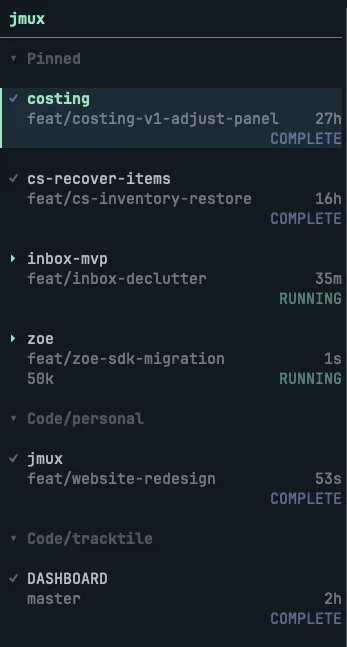
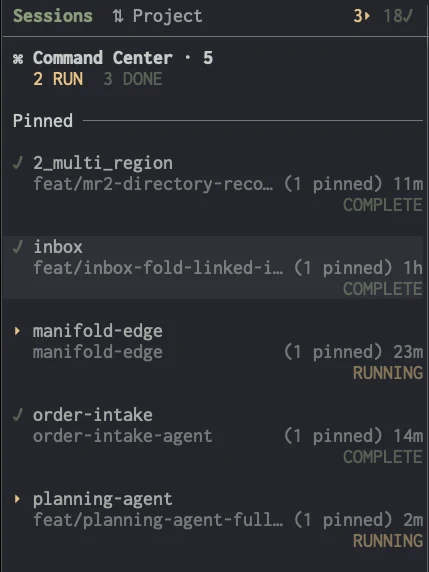
docs(site): fresh sidebar shot, new-chrome hero rotation, drop MRs image
Replace the Session Sidebar tile screenshot with a current-chrome
capture. Favour the newer new-chrome images in the hero card rotation
(command-center grid, dark theme, issues panel, light theme). Remove the
GitLab MRs image from the info-panel section on both the site and README
per design pass; the surrounding copy stays.

Claude-Session: https://claude.ai/code/session_01KujbtKHwH2BcBHHmmokm2v

diff --git a/site/index.html b/site/index.html
@@ -309,9 +309,9 @@
     <div class="heroshot">
       <div class="herostack">
         <figure class="card" data-pos="0"><img src="assets/command-center.webp" alt="jmux Command Center: a grid of live Claude agent panes, borders colored by state"></figure>
-        <figure class="card" data-pos="1"><img src="assets/command-palette.webp" alt="jmux command palette floating over a workspace"></figure>
-        <figure class="card" data-pos="2"><img src="assets/diff-panel-full.webp" alt="jmux full-screen diff panel"></figure>
-        <figure class="card" data-pos="3"><img src="assets/hero.webp" alt="jmux sidebar with grouped sessions alongside vim and Claude Code"></figure>
+        <figure class="card" data-pos="1"><img src="assets/theme-dark.webp" alt="jmux in a dark terminal theme: sidebar, window tabs, and a Claude Code session"></figure>
+        <figure class="card" data-pos="2"><img src="assets/linear-issues.webp" alt="jmux info panel showing Linear issues alongside a session"></figure>
+        <figure class="card" data-pos="3"><img src="assets/theme-light.webp" alt="jmux in a light terminal theme showing the same session, chrome adapting to the palette"></figure>
       </div>
     </div>
   </div>
@@ -445,7 +445,7 @@
       <p class="lead">The info panel shows your Linear issues and your GitHub/GitLab PRs/MRs in tabbed views, with pipeline status glyphs in the sidebar. Sessions auto-link to their branch's PR and issue.</p>
       <p class="lead">Select an issue, press <span class="kbd">n</span> — jmux creates a worktree, opens a session, and launches your agent with the issue context. <span class="kbd">o</span> open · <span class="kbd">s</span> status · <span class="kbd">a</span> approve.</p>
     </div>
-    <div><img src="assets/linear-issues.webp" alt="jmux info panel showing Linear issues"><img src="assets/gitlab-mrs.webp" alt="jmux info panel showing merge requests"></div>
+    <img src="assets/linear-issues.webp" alt="jmux info panel showing Linear issues alongside a session">
   </div>
 </section>
 

diff --git a/README.md b/README.md
@@ -56,8 +56,6 @@ While it works, watch the sidebar. When it finishes, toggle the **integrated dif
 
 Then flip to the **MRs tab** — approve, undraft, or update status without opening a browser. `o` opens anything in your browser, `s` updates an issue's status, `a` approves, `r` undrafts.
 
-![jmux info panel showing GitLab merge requests with pipeline status](docs/screenshots/gitlab-mrs.webp)
-
 <details>
 <summary><b>Setup</b> — Linear + GitLab / GitHub / GitHub Enterprise</summary>
 